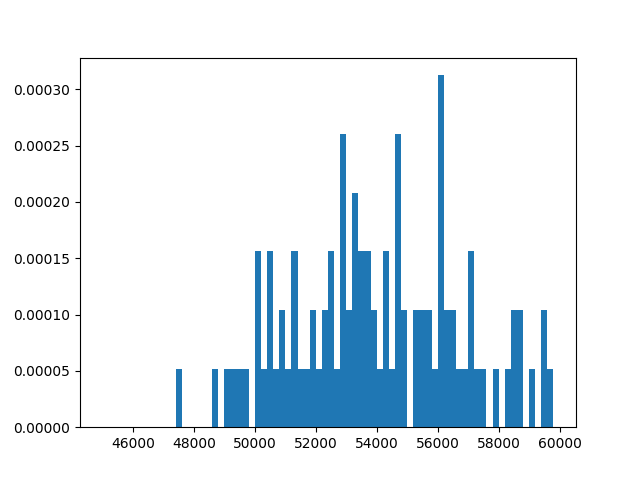
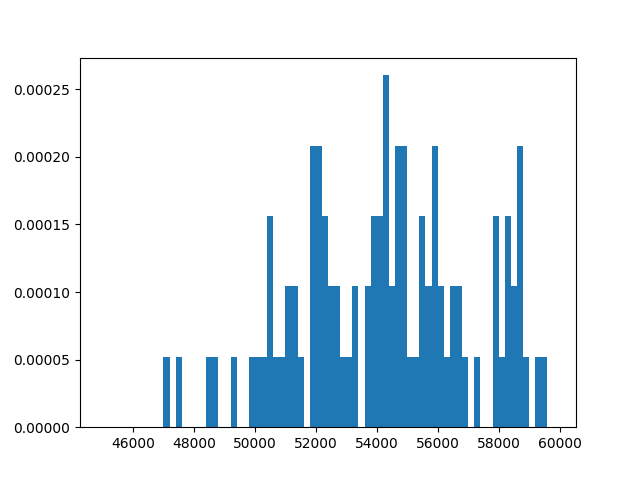
Fixed major code oversight

diff --git a/lab5/median_income_graphing.py b/lab5/median_income_graphing.py
@@ -6,35 +6,82 @@ import os
 import numpy as np
 import pandas as pd
 
+# Load csv of LA incomes into 'incomes' DataFrame variable
 incomes = pd.read_csv('lab5/medIncome.csv')
 
 def central_limit_histogram(incomes, samples, trials, limit1, limit2, bin, filen, directory):
+    ''' Creates histogram of mean incomes calculated by random collections of
+        incomes inputted, and saves it to a file. Makes normal curve in doing
+        so by the central limit theorem.
+
+    Parameters
+    --
+    incomes: DataFrame
+        CSV Dataframe containing incomes distribution
+    samples: int > 0
+        Number of means to take from random samplings of incomes
+    trials: int > 0
+        Individual sample incomes to go into mean
+    limit1: float
+        Lower bound of income range displayed in graph
+    limit2: float
+        Upper bound of income range displayed in graph
+    bin: float
+        Width of histogram bin over x-axis
+    filen: str
+        What name our histogram graph file should be saved as
+    directory: str
+        The name of the folder in which to save our mean sampling histogram
+
+    Returns 
+    --
+    None, but creates histogram of income normal curve by central limit theorem.
+    '''
+
+    # Throw exception if our samples, trials variables are not positive integers
+
     assert type(samples) == int, (str(samples) + ' must be a positive integer!')
     assert type(trials) == int, (str(trials) + ' must be a positive integer!')
 
     assert samples > 0, (str(samples) + ' must be a positive integer!')
     assert trials > 0, (str(samples) + ' must be a positive integer!')
 
+    # Mean variable + list of means
     mean = 0
     sampleMeans = []
 
+    # Cycle through 'samples' number of means
     for a in range(0, samples):
+
+        # Take means from 'trials' number of random income samples
         for b in range(0, trials):
 
+            # Take random income, add it to mean sum var
             income = incomes.sample().mean(0).to_dict()
             mean += income['x']
 
+        ''' Make mean sum var into mean via division by trials count --
+            then append it to mean list. '''
         mean = mean / trials
         sampleMeans.append(mean)
-
+        # Reset mean, print output for debug
+        mean = 0
         print('Mean ' + str(a) + ' to: ' + str(mean))
 
+    # Creates folder to store income histogram if it does not already exist
     if not os.path.exists('Graphs/'+directory):
         os.makedirs('Graphs/'+directory)
 
+    ''' Saves histogram of collected random sample means in folder 'directory' 
+        under filename 'filen.'''
     graphing.makeHist(sampleMeans, np.arange(limit1,limit2,bin), (str(directory)+'/'+filen))
 
+# MAIN CODE BLOCK
 if __name__ == '__main__':
+
+    ''' Graph LA income random mean sampling histograms with parameters as 
+        perscribed by the lab 5 instructions. '''
+
     central_limit_histogram(incomes, 50, 100, 45000, 60000, 200, "normal50.png", "la_incomes_normals")
     central_limit_histogram(incomes, 100, 100, 45000, 60000, 200, "normal100.png", "la_incomes_normals")
 
